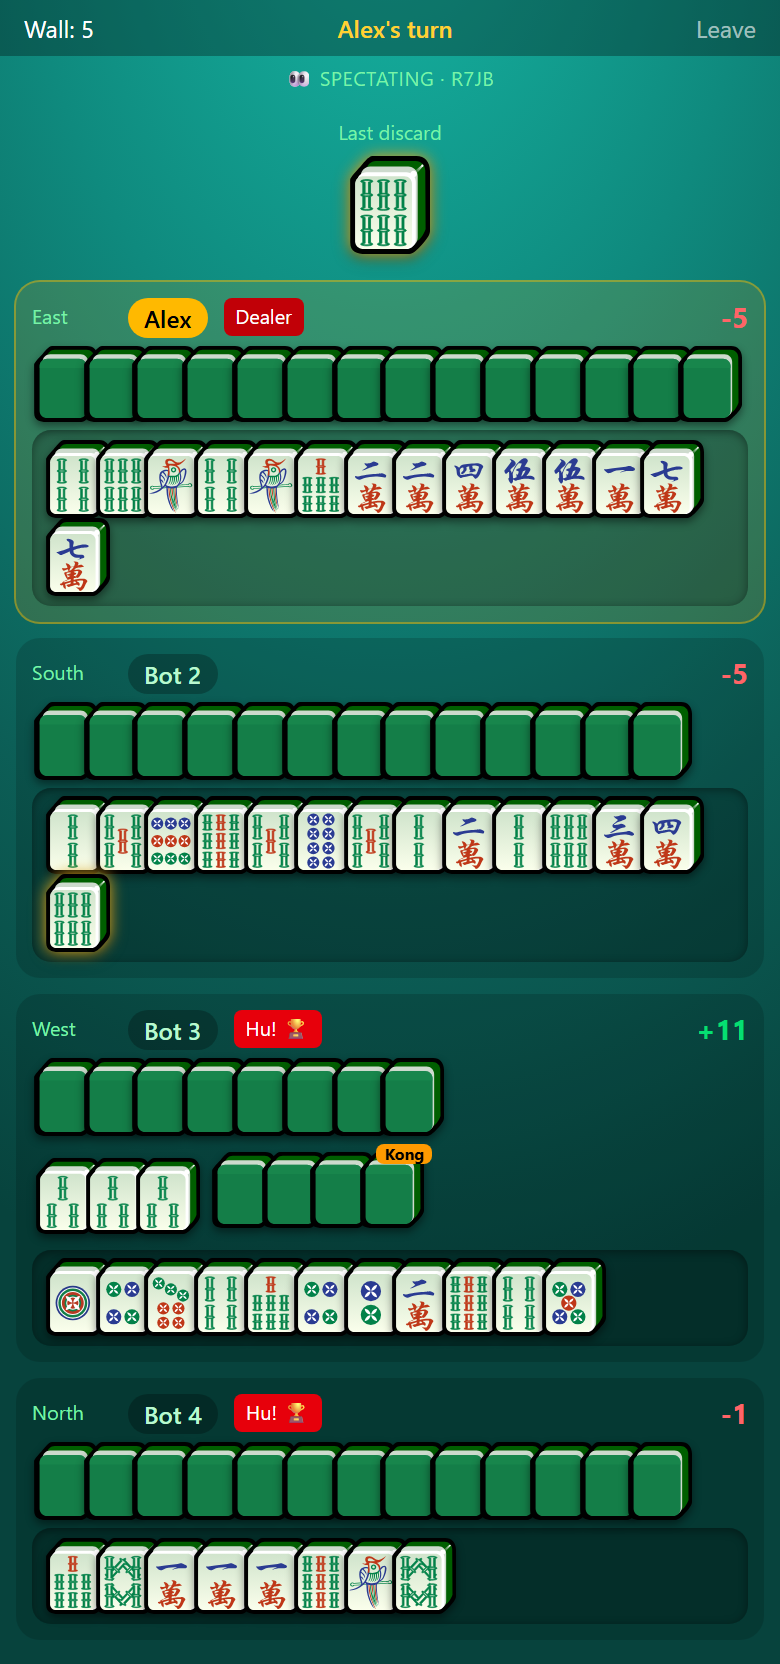
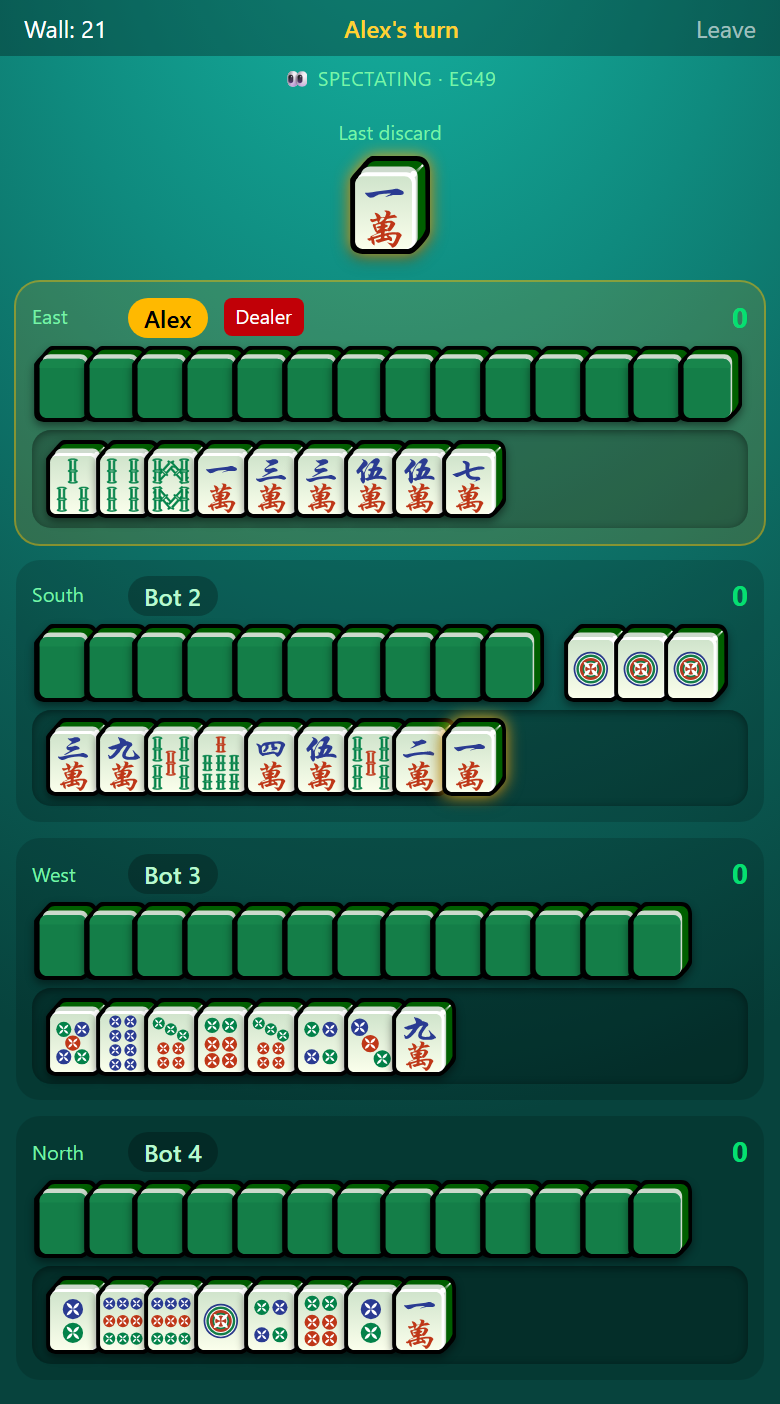
feat(client): centre the hand, draw the wall, and give claims room to think
Five things from playing a round with the lapped tiles.

The hand was left-aligned on any window wider than 13 capped tiles — 555px at
the left of a 1200px row. justify-center was already there and did nothing:
.tile-run is inline-flex, so it shrank to its content and centred the tiles
within itself. w-full on the hand's group fixes it; melds still want the
shrink-to-fit, so it does not go on .tile-run.

Illegal discards dim to 75% rather than 60%. Early in a hand the void suit is
the only legal discard, so most of the hand dims at once and 60 read as "these
tiles are barely here" instead of "not this turn". The e2e spec located
discardable tiles by that very class, so the change silently broke four
projects; there is a data-discardable hook now, as data-void-tile already was.

The wall is drawn instead of only counted (WallGauge): a run of backs in the
well, one per four tiles, overlapped hard so it starts at 14 and empties over
the round. Its tiles are display:flex because a .tile is inline-level, and one
shorter than the block's strut leaves the leading as dead space — 6px a back, in
the well of all places.

The void declaration is bigger, centred, and its marks flash. Comparing the whole
hand is the point of that screen, so its tiles are lg, dropping to md where four
rows would push Confirm off the bottom (R3). The marks pulse because a static
outline on four of thirteen reads as decoration; drawn as a ::after from
[…]

diff --git a/packages/client/src/screens/Game.tsx b/packages/client/src/screens/Game.tsx
@@ -12,6 +12,7 @@ import { PlayHistory } from '../components/PlayHistory.js';
 import { PlayTopBar } from '../components/PlayTopBar.js';
 import { RotateOverlay } from '../components/RotateOverlay.js';
 import { Tile } from '../components/Tile.js';
+import { WallGauge } from '../components/WallGauge.js';
 import { useSound } from '../hooks/useSound.js';
 import { useT } from '../i18n/useT.js';
 import { useStore } from '../store/index.js';
@@ -150,13 +151,15 @@ function VoidDeclarePhase({ view }: { view: PlayerView }) {
     sou: 'bg-blue-700 hover:bg-blue-600 border-blue-500',
   };
 
-  // The ring takes each suit's *button* colour, so the marked tiles and the
-  // button you pressed are visibly the same choice. Written out rather than
-  // built from the suit name because Tailwind only ships classes it can see.
-  const SUIT_RINGS: Record<Suit, string> = {
-    man: 'ring-red-500',
-    pin: 'ring-emerald-500',
-    sou: 'ring-blue-500',
+  // The mark takes each suit's *button* colour, so the marked tiles and the
+  // button you pressed are visibly the same choice. A text colour, not a ring:
+  // `.tile-mark-flash` draws the ring from `currentColor` so it can pulse.
+  // Written out rather than built from the suit name because Tailwind only ships
+  // classes it can see.
+  const SUIT_MARKS: Record<Suit, string> = {
+    man: 'text-red-500',
+    pin: 'text-emerald-500',
+    sou: 'text-blue-500',
   };
 
   return (
@@ -194,7 +197,7 @@ function VoidDeclarePhase({ view }: { view: PlayerView }) {
           its button's colour instead of being the only thing shown. */}
       <div className="min-h-0 overflow-y-auto">
         <p className="text-sm text-green-300 mb-2">{t('void.yourHand')}</p>
-        <div className="flex flex-wrap gap-1">
+        <div className="flex flex-wrap justify-center gap-1">
           {view.you.hand.map(id => {
             const { suit } = tileFromType(tileTypeOf(id));
             const marked = suit === chosenSuit;
@@ -206,13 +209,18 @@ function VoidDeclarePhase({ view }: { view: PlayerView }) {
                 // count the tiles in this container — fine when only the chosen
                 // suit was rendered, wrong now that the whole hand is.
                 data-void-tile={marked ? 'true' : undefined}
-                // ring, so the mark is drawn outside the tile and moves no box.
-                // 3px rather than 2: pin's emerald is the one ring sitting on a
-                // green felt, and it needs the extra pixel to read as clearly as
-                // the red and the blue do. `tile-mark` matches the tile's corner.
-                className={marked ? `tile-mark ring-[3px] ${SUIT_RINGS[suit]}` : ''}
+                // The mark is drawn outside the tile and moves no box; 3px rather
+                // than 2 because pin's emerald is the one colour sitting on green
+                // felt, and it needs the extra pixel to read as clearly as the red
+                // and the blue. `tile-mark` matches the tile's corner.
+                className={[
+                  'void-hand-tile',
+                  marked ? `tile-mark tile-mark-flash ${SUIT_MARKS[suit]}` : '',
+                ]
+                  .filter(Boolean)
+                  .join(' ')}
               >
-                <Tile id={id} size="md" />
+                <Tile id={id} fill />
               </div>
             );
           })}
@@ -296,6 +304,10 @@ function PlayPhase({ view }: { view: PlayerView }) {
               line on a short viewport (index.css): it's pointer-events-none,
               so it can't scroll internally to make room for more. */}
           <EventFeed view={view} />
+          {/* The wall, above the discard it feeds — which is where it sits on a
+              table. The exact count is in the top bar; this is for reading how
+              much round is left without doing arithmetic. */}
+          <WallGauge remaining={view.wallRemaining} />
           {lastDiscardTile !== null && (
             <div className="flex flex-col items-center gap-1">
               <span className="text-xs text-green-300">{t('play.lastDiscard')}</span>

diff --git a/packages/client/src/index.css b/packages/client/src/index.css
@@ -188,6 +188,76 @@ body {
   z-index: 2;
 }
 
+/* The wall, drawn end-on in the well. Overlapped far harder than a run — 14
+   backs have to fit a well that is ~140px wide on a 320px phone — which is also
+   about what the wall looks like from across a table. Its own negative margin
+   rather than `.tile-lap`, because that one is 22.5% by definition: it is the
+   width of the art's body band, and this is a stack, not a run. */
+.wall-gauge-tile {
+  /* flex, so there is no line box: `.tile` is inline-level, and one shorter than
+     the block's own strut leaves the strut's leading as dead space beneath it —
+     6px a back, in a well that is fought over. */
+  display: flex;
+  width: 1.1rem;
+}
+
+.wall-gauge-tile + .wall-gauge-tile {
+  margin-left: -0.67rem;
+}
+
+/* The void declaration shows the whole hand, so you can weigh three suits
+   against each other rather than choosing blind — which is worth as much tile as
+   the viewport can afford. It drops a size where four rows of `lg` would push
+   Confirm off the bottom (R3's lesson), the same bargain `.last-discard-tile`
+   makes. */
+.void-hand-tile {
+  width: 3.5rem; /* Tile's "lg" width */
+}
+
+@media (max-height: 700px) {
+  .wall-gauge-tile {
+    width: 0.7rem;
+  }
+
+  .wall-gauge-tile + .wall-gauge-tile {
+    margin-left: -0.42rem;
+  }
+
+  .void-hand-tile {
+    width: 2.5rem; /* Tile's "md" width */
+  }
+}
+
+/* The marked tiles at the void declaration flash rather than sitting in a static
+   ring: these are the tiles you are about to give up, and an outline around four
+   of thirteen reads as decoration when it doesn't move. A pseudo-element, so only
+   the ring pulses — animating the wrapper would take the tile with it — and drawn
+   with spread on an inset-0 box, so it moves no layout box. The colour comes from
+   `currentColor`, which the suit's text class sets to its button's colour. */
+.tile-mark-flash {
+  position: relative;
+}
+
+.tile-mark-flash::after {
+  content: "";
+  position: absolute;
+  inset: 0;
+  border-radius: inherit;
+  box-shadow: 0 0 0 3px currentColor;
+  animation: void-mark-flash 1.1s ease-in-out infinite;
+  pointer-events: none;
+}
+
+@keyframes void-mark-flash {
+  0%,
+  100% {
+    opacity: 1;
+  }
+  50% {
+    opacity: 0.2;
+  }
+}
+
 /* ---------------------------------------------------------------------------
    Board — vibrant jade felt table with recessed wells
 --------------------------------------------------------------------------- */

diff --git a/packages/client/src/components/OwnZone.tsx b/packages/client/src/components/OwnZone.tsx
@@ -355,7 +355,12 @@ export function OwnZone({ view }: { view: PlayerView }) {
           // suit markings stop being readable. Flush at px-2 they reach 23.4px,
           // and lapping each tile over the one before it (tile-lap) spends the
           // hidden 22.5% on the art instead, which draws them at ~29px.
-          className="tile-run tile-lap pb-1 list-none justify-center"
+          //
+          // w-full is what makes justify-center mean anything: `.tile-run` is
+          // inline-flex, so on a window wider than 13 capped tiles it shrank to
+          // its content and sat against the left edge — centred within itself,
+          // which is no centring at all. Melds still want the shrink-to-fit.
+          className="tile-run tile-lap w-full pb-1 list-none justify-center"
         >
           {handOrder.map(id => (
             <Reorder.Item
@@ -363,7 +368,14 @@ export function OwnZone({ view }: { view: PlayerView }) {
               value={id}
               // Shrink-to-fit: every tile flexes to share the row width (capped so
               // small hands don't balloon), so the whole hand fits with no scroll.
-              className={`flex-1 min-w-0 max-w-[42px] ${legalDiscards.has(id) ? '' : 'opacity-60'}`}
+              // What the e2e spec reads to find a tile it may discard. It used
+              // to key off the dimming class itself, which silently stopped
+              // matching the moment that class changed value.
+              data-discardable={legalDiscards.has(id) ? 'true' : undefined}
+              // 75, not 60: early in a hand the void suit is the only legal
+              // discard, so most of the hand is dimmed at once and 60 read as
+              // "these tiles are barely here" rather than "not this turn".
+              className={`flex-1 min-w-0 max-w-[42px] ${legalDiscards.has(id) ? '' : 'opacity-75'}`}
               onPointerDown={e => {
                 tapStart.current = { x: e.clientX, y: e.clientY };
               }}

diff --git a/packages/client/src/components/WallGauge.tsx b/packages/client/src/components/WallGauge.tsx
@@ -1,0 +1,49 @@
+import { useT } from '../i18n/useT.js';
+import { TileBack } from './Tile.js';
+
+/**
+ * Tiles per drawn back. The deal leaves 56 in the wall, so the strip starts at
+ * 14 backs and empties over the round.
+ */
+export const WALL_PER_BACK = 4;
+
+/** Most backs the strip will draw — the well is ~140px wide on a 320px phone. */
+export const WALL_MAX_BACKS = 14;
+
+/**
+ * How many backs stand for `remaining` tiles. Rounded up, so the wall only reads
+ * as empty once it is, and capped so a longer wall can't push the strip past the
+ * well it sits in.
+ *
+ * Exported to be tested: the client suite runs in Node with no DOM.
+ */
+export function wallBacks(remaining: number): number {
+  if (remaining <= 0) return 0;
+  return Math.min(Math.ceil(remaining / WALL_PER_BACK), WALL_MAX_BACKS);
+}
+
+/**
+ * The wall as tiles rather than a number: a run of backs, overlapped much harder
+ * than a hand's, which is roughly what the wall looks like from across the table.
+ * The exact count stays in the top bar — this is for reading at a glance how much
+ * of the round is left, which is what decides whether a hand is still worth
+ * chasing.
+ */
+export function WallGauge({ remaining }: { remaining: number }) {
+  const t = useT();
+  const backs = wallBacks(remaining);
+  return (
+    <div
+      className="wall-gauge flex"
+      role="img"
+      aria-label={t('play.wall', { n: remaining })}
+      title={t('play.wall', { n: remaining })}
+    >
+      {Array.from({ length: backs }, (_, i) => (
+        <div key={i} className="wall-gauge-tile">
+          <TileBack fill />
+        </div>
+      ))}
+    </div>
+  );
+}

diff --git a/packages/client/tests/wall-gauge.test.ts b/packages/client/tests/wall-gauge.test.ts
@@ -1,0 +1,28 @@
+import { describe, expect, it } from 'vitest';
+import { WALL_MAX_BACKS, WALL_PER_BACK, wallBacks } from '../src/components/WallGauge.js';
+
+describe('wall gauge', () => {
+  it('draws one back per WALL_PER_BACK tiles', () => {
+    expect(wallBacks(WALL_PER_BACK)).toBe(1);
+    expect(wallBacks(WALL_PER_BACK * 5)).toBe(5);
+  });
+
+  it('rounds up, so a wall only reads as empty once it is', () => {
+    expect(wallBacks(1)).toBe(1);
+    expect(wallBacks(WALL_PER_BACK + 1)).toBe(2);
+  });
+
+  it('is empty at zero, and never negative', () => {
+    expect(wallBacks(0)).toBe(0);
+    expect(wallBacks(-4)).toBe(0);
+  });
+
+  it('caps, so a longer wall cannot push the strip past the well', () => {
+    expect(wallBacks(WALL_PER_BACK * WALL_MAX_BACKS)).toBe(WALL_MAX_BACKS);
+    expect(wallBacks(1000)).toBe(WALL_MAX_BACKS);
+  });
+
+  it('shows the full strip at the deal — 56 tiles after 4×13 are dealt', () => {
+    expect(wallBacks(56)).toBe(14);
+  });
+});

diff --git a/e2e/ui-clicks.spec.ts b/e2e/ui-clicks.spec.ts
@@ -109,14 +109,14 @@ test('opening played via real UI clicks (huan tiles, void suit, discard tap)', a
   const flipButton = page.getByRole('button', { name: /Flip your first discard/i });
   if (voidSuitTiles > 0) {
     await expect(flipButton).toBeVisible({ timeout: 10_000 });
-    await expect(page.locator('ul li:not(.opacity-60)')).toHaveCount(0);
+    await expect(page.locator('ul li[data-discardable]')).toHaveCount(0);
     await flipButton.click();
     await expect(flipButton).toBeHidden({ timeout: 10_000 });
   }
 
   // ── Wait for our next turn, then tap a discardable hand tile to select it and
   //    tap again to discard. ──
-  const discardable = page.locator('ul li:not(.opacity-60)');
+  const discardable = page.locator('ul li[data-discardable]');
   await expect.poll(() => discardable.count(), { timeout: 30_000 }).toBeGreaterThan(0);
   const before = await hand.count();
 

diff --git a/packages/engine/src/state.ts b/packages/engine/src/state.ts
@@ -31,7 +31,12 @@ export const DEFAULT_CONFIG: GameConfig = {
   voidDiscardRule: 'strict',
   enableFlowerPig: false,
   fanCap: 3,
-  claimWindowMs: 3000,
+  // 6s, not the 3s this shipped with. A claim is three decisions inside one
+  // window — notice the discard, see that it fits your hand, and pick between Hu,
+  // Pung and Kong — and 3s was only ever enough if you were already expecting the
+  // tile. The window still closes as soon as every eligible seat has acted, so
+  // the longer deadline costs nothing except when someone is genuinely thinking.
+  claimWindowMs: 6000,
 };
 
 /**

diff --git a/TODO.md b/TODO.md
@@ -1,5 +1,38 @@
 # TODO
 
+## ✅ Five fixes off playing it (2026-08-01)
+
+From watching the lapped tiles in a real round.
+
+- [x] **The hand is centred.** It was left-aligned on anything wider than 13
+  capped tiles — 555px sitting at the left of a 1200px row. `justify-center` was
+  already there and did nothing: `.tile-run` is `inline-flex`, so it shrank to its
+  content and centred the tiles *within itself*. `w-full` on the hand's group is
+  the fix; melds still want the shrink-to-fit, so it isn't on `.tile-run`.
+- [x] **Illegal discards dim to 75%, not 60%.** Early in a hand the void suit is
+  the only legal discard, so ten of thirteen tiles dim at once and 60 read as
+  "these are barely here" rather than "not this turn".
+- [x] **The e2e spec stopped keying off that class.** It located discardable tiles
+  with `li:not(.opacity-60)`, so changing the value silently broke four projects.
+  There is a `data-discardable` hook now, as `data-void-tile` already was — the
+  second time a Tailwind class in a selector has cost a full e2e run.
+- [x] **The wall is drawn, not just counted** (`WallGauge`). A run of backs in the
+  well, one per four tiles and overlapped hard, so it starts at 14 and empties over
+  the round — roughly what the wall looks like from across a table. The exact count
+  stays in the top bar. Its tiles are `display: flex`: a `.tile` is inline-level,
+  and one shorter than the block's strut leaves the leading as dead space, which
+  cost 6px a back in the well of all places.
+- [x] **The void declaration got bigger, centred, and its marks flash.** Whole-hand
+  comparison is the point of that screen, so its tiles are `lg`, dropping to `md`
+  where four rows would push Confirm off the bottom (R3). The marks pulse rather
+  than sitting still — a static outline on four of thirteen reads as decoration.
+  Drawn as a `::after` from `currentColor` so only the ring animates and no layout
+  box moves; reduced motion rests it at full opacity.
+- [x] **The claim window is 6s, was 3s.** A claim is three decisions inside one
+  window — notice the discard, see that it fits your hand, choose between Hu, Pung
+  and Kong. It closes as soon as every eligible seat has acted, so the longer
+  deadline costs nothing except when someone is genuinely thinking.
+
 ## ✅ Tiles are the untouched art, and a run laps (2026-08-01)
 
 *"I think the art overlapped looks best, the css still looks kind of clunky"* —

diff --git a/ARCHITECTURE.md b/ARCHITECTURE.md
@@ -98,7 +98,7 @@ sichuan-mahjong/
 │   │   ├── public/
 │   │   │   └── tiles/            # 27 3D faces + back.svg + credits.json
 │   │   ├── src/
-│   │   │   ├── components/       # Tile, MeldDisplay, ClaimPanel, EventFeed, PlayHistory, ErrorToast, ConnectionLost
+│   │   │   ├── components/       # Tile, MeldDisplay, ClaimPanel, EventFeed, PlayHistory, WallGauge, ErrorToast, ConnectionLost
 │   │   │   ├── screens/          # Landing, HostSetup, JoinForm, Lobby, Game, RoundEnd, MatchEnd, Spectate, About
 │   │   │   ├── store/
 │   │   │   ├── ws/
@@ -231,7 +231,7 @@ export type GameConfig = {
   voidDiscardRule: 'strict' | 'lenient';   // default 'strict'; lenient = Novikov canonical
   enableFlowerPig: boolean;          // default false (HOUSE RULE — see §5.9)
   fanCap: number;                    // default 3 → max payment 2^3 = 8
-  claimWindowMs: number;             // default 3000
+  claimWindowMs: number;             // default 6000
 };
 
 export const DEFAULT_CONFIG: GameConfig = {
@@ -242,7 +242,7 @@ export const DEFAULT_CONFIG: GameConfig = {
   voidDiscardRule: 'strict',
   enableFlowerPig: false,
   fanCap: 3,
-  claimWindowMs: 3000,
+  claimWindowMs: 6000,
 };
 ```
 
@@ -419,7 +419,7 @@ The engine also rejects claims on void-suit tiles regardless of mode (no rationa
 
 Pung, exposed kong, and Hu can be claimed off a discard. **No chow claims.**
 
-Window duration = `config.claimWindowMs` (default 3000ms, per PDF). Closes early if every eligible player has explicitly passed.
+Window duration = `config.claimWindowMs` (default 6000ms). Closes early if every eligible player has explicitly passed, so the longer deadline only costs time when someone is actually deciding. It was 3000 until 2026-08-01: a claim is three decisions in one window — notice the discard, see that it fits, choose between Hu, Pung and Kong — and 3s only sufficed if you were already waiting for the tile.
 
 Resolution priority: **Hu > Kong > Pung**.
 - Multiple Hu claims on the same discard: all honored (see §5.6).
